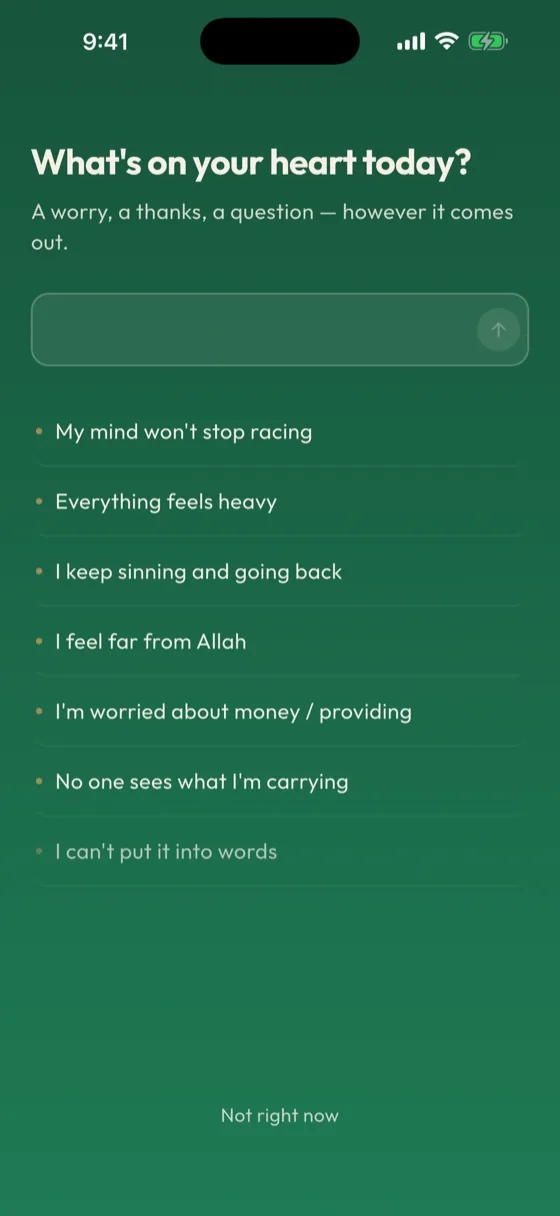
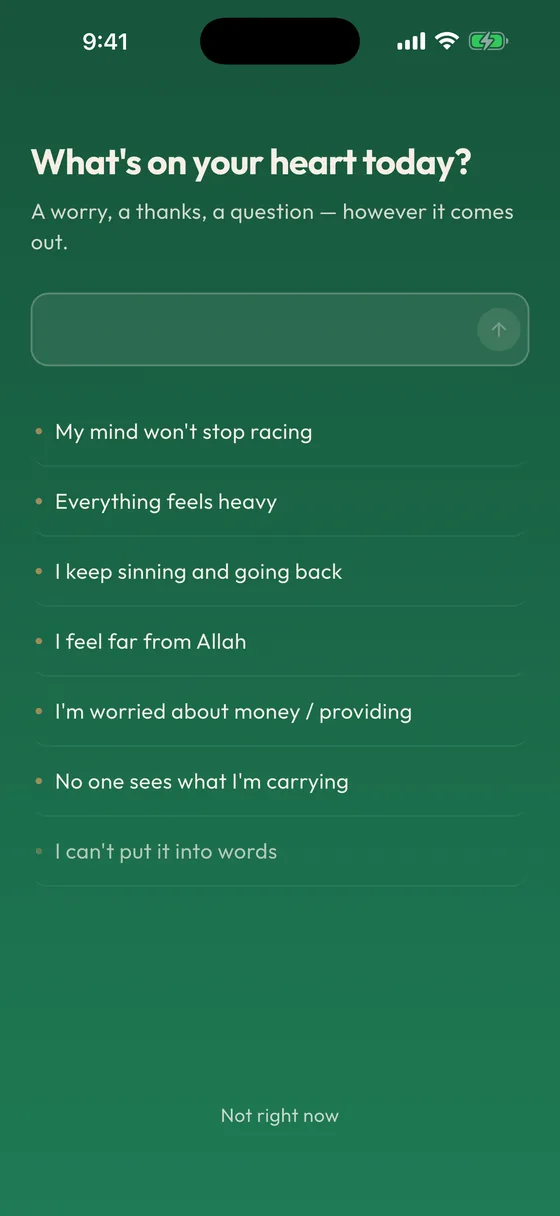
fix: the middle phone was a modal, so its screen looked smaller
name-detail is presented as a sheet, so the dimmed parent showed through
as a grey inset inside the bezel. The three frames were always identical —
what differed was how much of each frame the app actually filled, which
read as one phone being a different size from the other two.

Replaced with verse-dua: the actual Qur'an verse, Arabic with English
translation and the citation Al-Imran 3:173, full-bleed. story-verse was
the tempting pick and is the wrong one — those beats are paraphrase, and
docs/marketing/app-store/README.md already rules them out of any slide
captioned as scripture after an App Store draft was caught doing exactly
that. A comment now says so at the call site.

Also pins all three exports to an explicit 560x1216 instead of resizing by
width and letting the height round, which had drifted one of them to 1217
and made that phone a pixel taller than its neighbours. The resize now
asserts the source really is 1320x2868 so the drift cannot come back.

Caption and alt text follow the new capture rather than describing the
Name detail screen that is no longer there.

diff --git a/index.html b/index.html
@@ -608,13 +608,17 @@
         </figcaption>
       </figure>
       <figure class="screen">
+        <!-- verse-dua, not story-verse. The story beats are paraphrase, and
+             docs/marketing/app-store/README.md rules them out of any slide
+             captioned as scripture — a retelling shown as Qur'an is exactly
+             the misrepresentation that rule exists to prevent. -->
         <div class="phone">
           <img src="assets/screens/answer.webp" width="560" height="1216" loading="lazy" decoding="async"
-               alt="A Name of Allah in the app, showing its meaning and a prophetic teaching cited to Bukhari." />
+               alt="A Qur'an verse in the app, shown in Arabic with an English translation and the citation Al-Imran 3:173." />
         </div>
         <figcaption>
-          <b>Meet the Name for it</b>
-          <span>Its meaning, a verse, and the teaching behind it.</span>
+          <b>Be met with scripture</b>
+          <span>A verse for the moment &mdash; Arabic, translation, and where it&rsquo;s from.</span>
         </figcaption>
       </figure>
       <figure class="screen">
